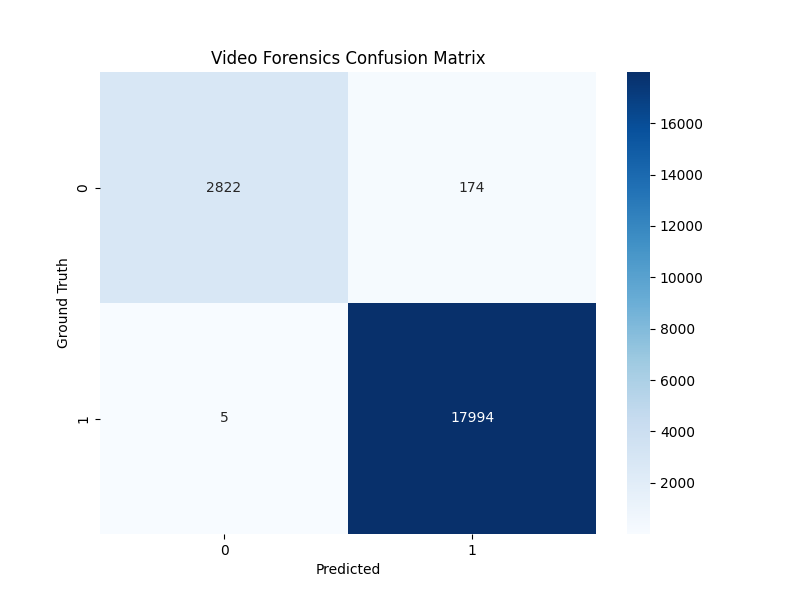
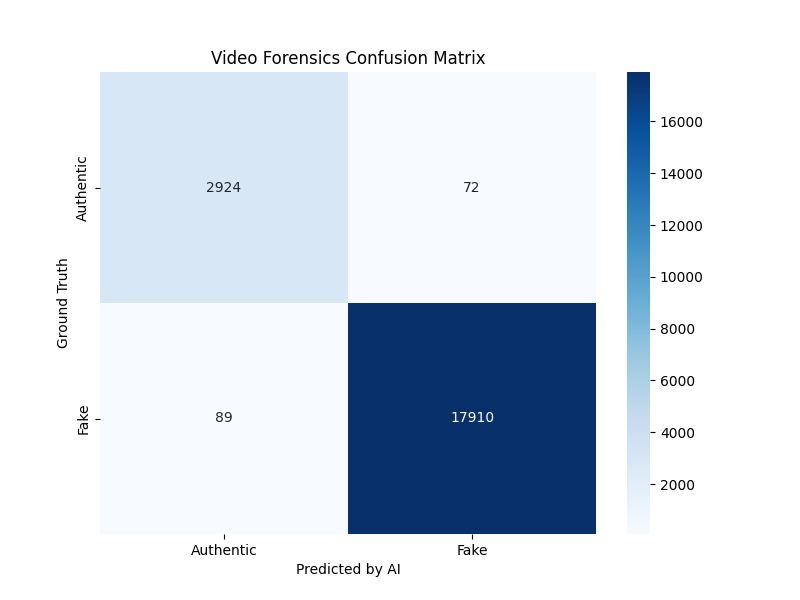
results updated

diff --git a/README.md b/README.md
@@ -1,11 +1,13 @@
 # 📽 Digital Video Forensics Project
 
-This project implements a **Video Tampering Detection Algorithm** designed to detect both spatial (frame-level) and temporal (sequence-level) manipulations.
+A high-performance **Video Tampering Detection System** using Deep Learning to identify spatial and temporal manipulations in digital video content.
 
 ## 🧬 Detection Strategy
-We use a **Dual Architecture** approach:
-1. **CNN (ResNet/EfficientNet)**: Detects spatial anomalies (Copy-move, splicing, deepfake texture).
-2. **LSTM/RNN layer**: Detects temporal anomalies (Frame deletion, insertion, speed changes).
+A **Dual-Stream Forensic Architecture**:
+1. **CNN (Spatial Layer)**: Analyzes individual frame textures, noise patterns, and artifacts using ResNet backbone to detect splicing and copy-move.
+2. **LSTM (Temporal Layer)**: Evaluates sequences of frames to identify temporal inconsistencies like frame deletion, insertion, or re-ordering.
+
+---
 
 ## 📁 Project Structure
 - `data/`: Raw original and tampered videos (e.g., from Kaggle).
@@ -15,24 +17,68 @@ We use a **Dual Architecture** approach:
 - `scripts/`: Utilities for preprocessing, training, and evaluation.
 - `results/`: Performance metrics (Accuracy, F1-Score) and visualization plots.
 
-## 🚀 Getting Started
+## 🚀 Step-by-Step Forensic Workflow
 
-### 1. Environment Setup
-Install the necessary dependencies using:
+Follow these steps to reproduce the training and evaluation process:
+
+### 1⃣ Environment Setup
+Install the required libraries:
 ```bash
 pip install -r requirements.txt
 ```
-
-### 2. Verify Your Environment
-Run the check script to ensure your GPU is detected:
+Verify GPU acceleration:
 ```bash
 python check_env.py
 ```
 
-### 3. Workflow for Cloud (Lightning AI)
-1. Commit and push any code changes to your GitHub repository.
-2. Pull the repository on Lightning AI.
-3. Run the training script using a Cloud GPU for maximum speed!
+### 2⃣ Data Acquisition
+Download the FaceForensics++ (C23) dataset:
+```bash
+python scripts/download_data.py
+```
+
+### 3⃣ Frame Processing
+Extract frames from videos and generate labels for the AI:
+```bash
+python scripts/extract_frames.py
+```
+
+### 4⃣ Model Training
+Train the Dual-Stream model on your local/cloud GPU:
+```bash
+python scripts/train_model.py
+```
+*Note: This generates `results/training_history.csv`.*
+
+### 5⃣ Forensic Evaluation
+Run the evaluation suite to measure performance:
+```bash
+python scripts/evaluate_model.py
+```
+
+### 6⃣ Live Prediction (Test on Random Video)
+Test the model on any video file:
+```bash
+python scripts/predict_video.py --video_path path/to/video.mp4
+```
 
 ---
-*Created for the Digital Video Forensics Training.*
+
+## 📊 Project Final Run Results
+
+Below are the findings from our latest forensic analysis.
+
+### 📈 Confusion Matrix
+The following heatmap illustrates the model's performance in distinguishing between **Authentic** and **Tampered (Fake)** videos:
+
+![Forensic Confusion Matrix](results/confusion_matrix.png)
+
+### 📉 Training History
+You can view the full training loss progression over epochs here:
+[Download Training History (CSV)](results/training_history.csv)
+
+### 📑 Summary Report
+Detailed metrics (Accuracy, Precision, Recall) can be found in the [Final Forensic Report](results/final_report.txt).
+
+---
+*Developed for Digital Video Forensics *
